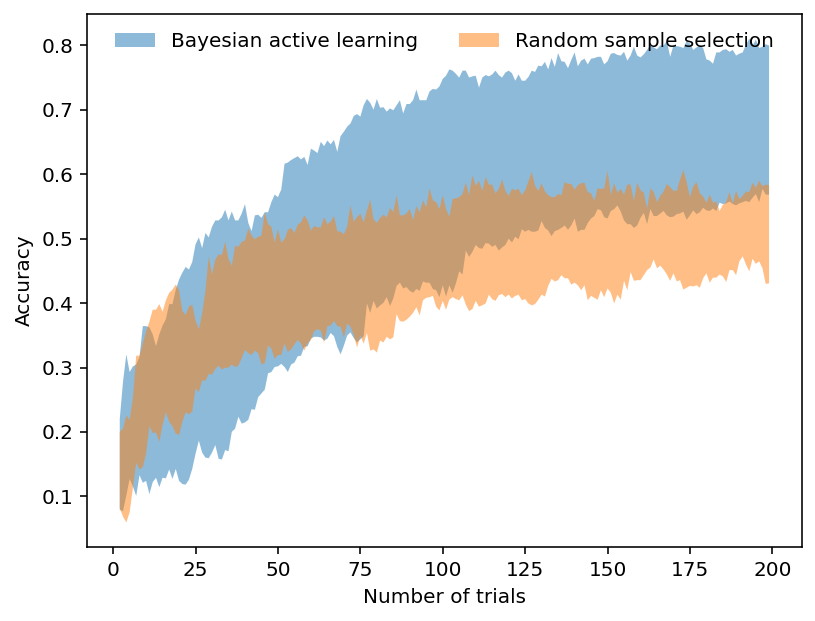
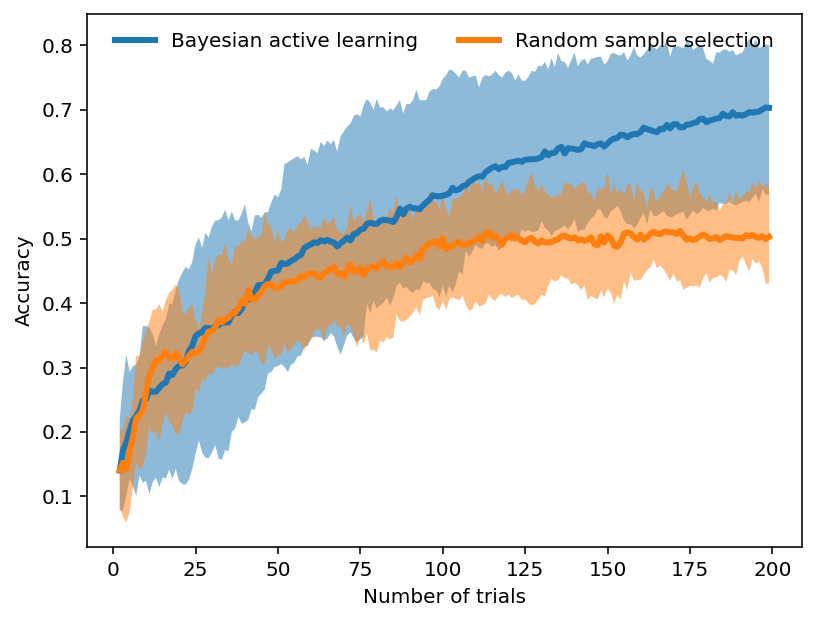
include trend

diff --git a/analyses/plots.py b/analyses/plots.py
@@ -11,18 +11,26 @@ adaptive = load_df("output/utility_adaptive.csv")
 static = load_df("output/utility_static.csv")
 
 stats_adaptive = adaptive.groupby("n_samples").agg(
-    min=("accuracy", "min"), max=("accuracy", "max"),
+    min=("accuracy", "min"), max=("accuracy", "max"), mean=("accuracy", "mean"),
 )
 stats_static = static.groupby("n_samples").agg(
-    min=("accuracy", "min"), max=("accuracy", "max"),
+    min=("accuracy", "min"), max=("accuracy", "max"), mean=("accuracy", "mean"),
 )
 
 plt.fill_between(
     stats_adaptive.index, stats_adaptive["min"], stats_adaptive["max"],
-    alpha=0.5, label="Bayesian active learning",
+    alpha=0.5,
 )
+plt.plot(
+    stats_adaptive.index, stats_adaptive["mean"], lw=3,
+    label="Bayesian active learning",
+)
+
 plt.fill_between(
     stats_static.index, stats_static["min"], stats_static["max"], alpha=0.5,
+)
+plt.plot(
+    stats_static.index, stats_static["mean"], lw=3,
     label="Random sample selection",
 )
 plt.xlabel("Number of trials")
